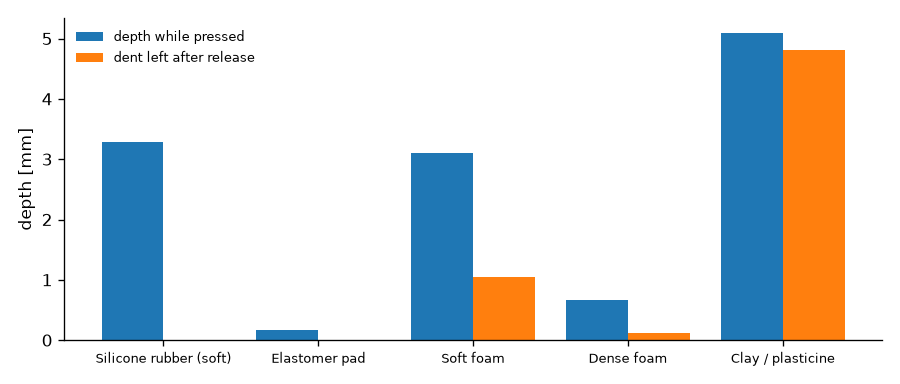
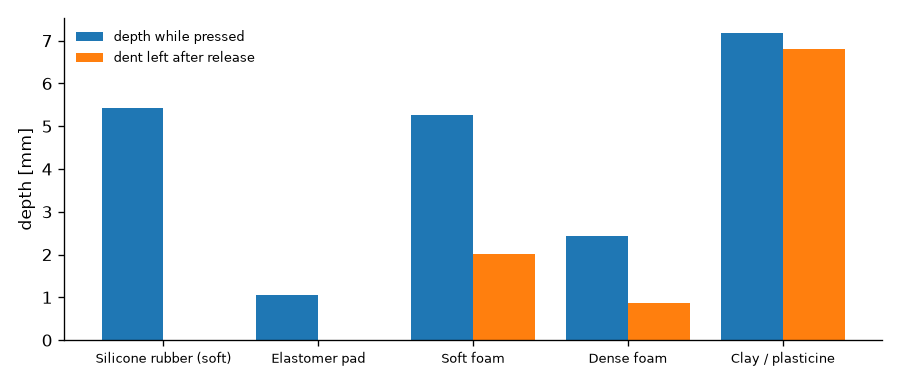
MDE 페이지: 손끝 footprint를 asset 측정 구면으로 교체한 소재 비교 결과로 갱신 (소스)

diff --git a/homepage-src/docs/projects/mde.md b/homepage-src/docs/projects/mde.md
@@ -65,6 +65,7 @@ flowchart LR
 
 연구용으로 가장 널리 쓰이는 다지 핸드인 **Allegro Hand**(Wonik Robotics, 16자유도)가 160 × 160 mm 패드를 세 손가락으로
 세 번 눌렀다 떼는 장면입니다. 손끝 접촉력을 PhysX에서 읽어 MDE가 패드 표면 변형을 계산하고, 눌린 깊이를 청색 농도로 표시합니다.
+손끝 형상은 asset의 충돌 형상에서 직접 측정해(반지름 약 6.9 mm 구면) 패드가 손끝 모양대로 눌리도록 했습니다.
 핸드 asset은 Isaac Sim 5.0 공식 asset을 그대로 사용합니다.
 
 <figure markdown>
@@ -91,11 +92,11 @@ flowchart LR
 
 | 소재 Profile | 계열 | 눌린 깊이 | 해제 후 남은 자국 | 거동 |
 |---|---|---|---|---|
-| Silicone rubber (soft) | 탄성체 | 3.3 mm | 0.0 mm | 깊게 눌리고 완전히 복원 |
-| Elastomer pad | 탄성체 | 0.2 mm | 0.0 mm | 단단해 거의 눌리지 않음 |
-| Soft foam | 폴리머 폼 | 3.1 mm | 1.0 mm | 일부 영구변형 |
-| Dense foam | 폴리머 폼 | 0.7 mm | 0.1 mm | 얕은 영구변형 |
-| Clay / plasticine | 점토 | 5.1 mm | 4.8 mm | 대부분 영구변형 |
+| Silicone rubber (soft) | 탄성체 | 5.4 mm | 0.0 mm | 깊게 눌리고 완전히 복원 |
+| Elastomer pad | 탄성체 | 1.1 mm | 0.0 mm | 단단해 얕게 눌리고 복원 |
+| Soft foam | 폴리머 폼 | 5.3 mm | 2.0 mm | 일부 영구변형 |
+| Dense foam | 폴리머 폼 | 2.4 mm | 0.9 mm | 얕은 영구변형 |
+| Clay / plasticine | 점토 | 7.2 mm | 6.8 mm | 대부분 영구변형 |
 
 - 소재 차이는 코드가 아니라 **Profile 파일 교체**만으로 만들어집니다.
 - 영구변형이 생긴 소재에서는 항복 개시·자국 한도 초과 이벤트가 Ground Truth로 자동 기록되었습니다.
@@ -103,7 +104,8 @@ flowchart LR
 !!! warning "해석 시 주의"
     - 물성값은 문헌 범위에서 고른 **잠정값**입니다. 위 수치는 특정 제품의 예측이 아니라 파이프라인 동작을 보여 주는 예시입니다.
     - 현재 장면에서 손끝 힘은 소재와 무관하게 같습니다(중지 약 12 N). 패드의 무름이 접촉력에 되먹임되는 결합은 다음 단계입니다.
-    - 손끝 접촉 영역은 12 × 12 mm 사각형으로 근사했습니다(자국이 사각형인 이유).
+    - 손끝은 구면으로 근사했습니다. 눌린 깊이가 손끝 반지름(약 7 mm)에 가까워지면 손가락 측면 접촉이 빠져 있어
+      깊이를 크게 계산합니다(점토가 해당).
 
 ## 5. 개발 단계
 
